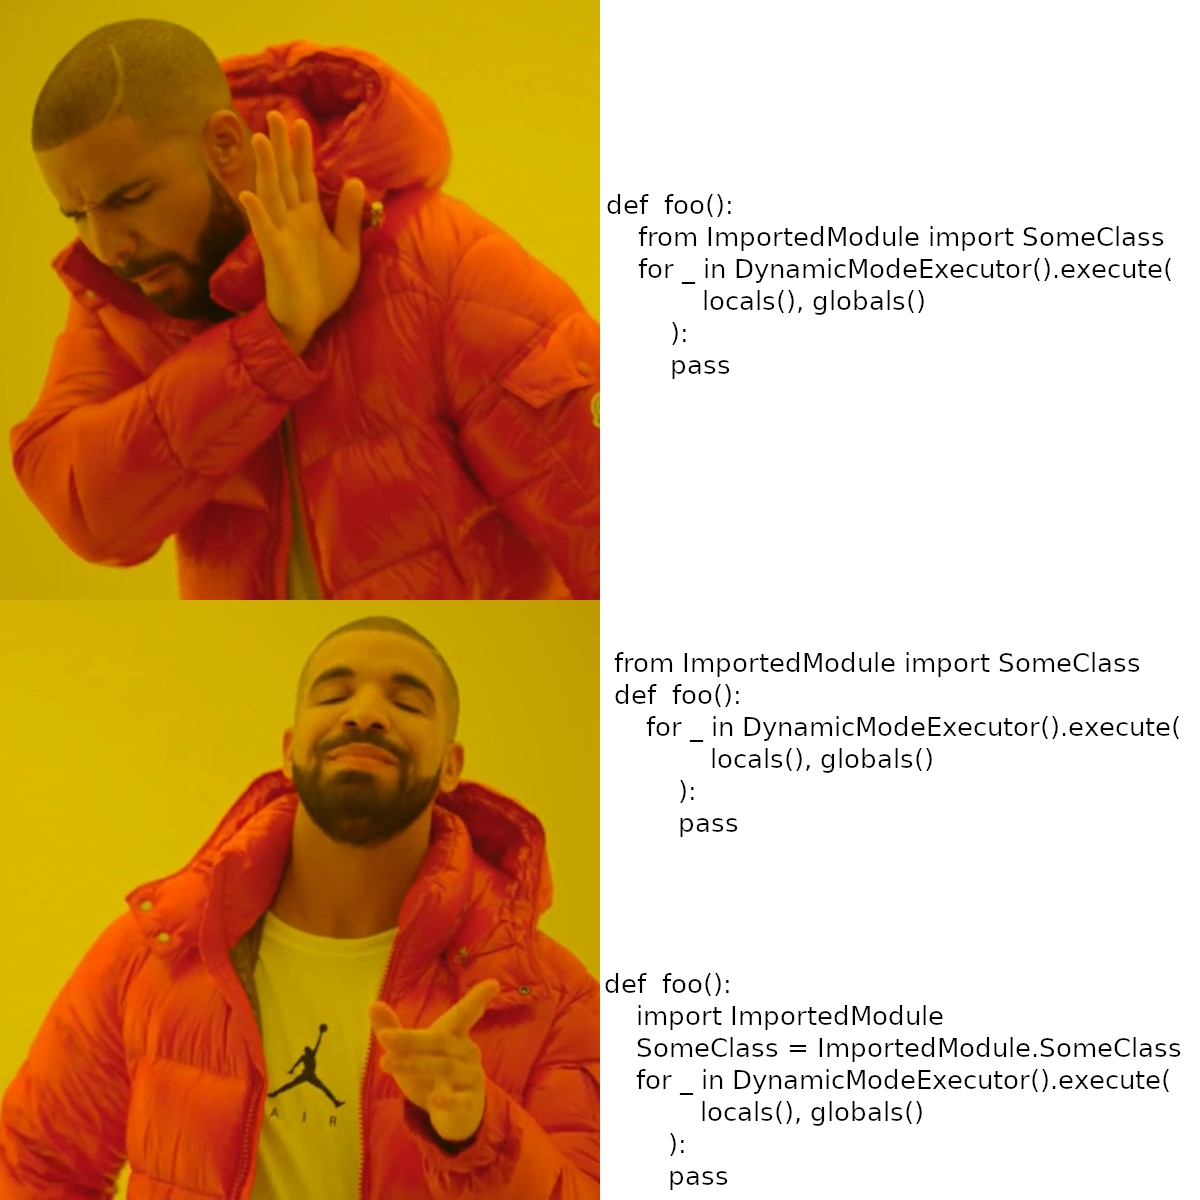
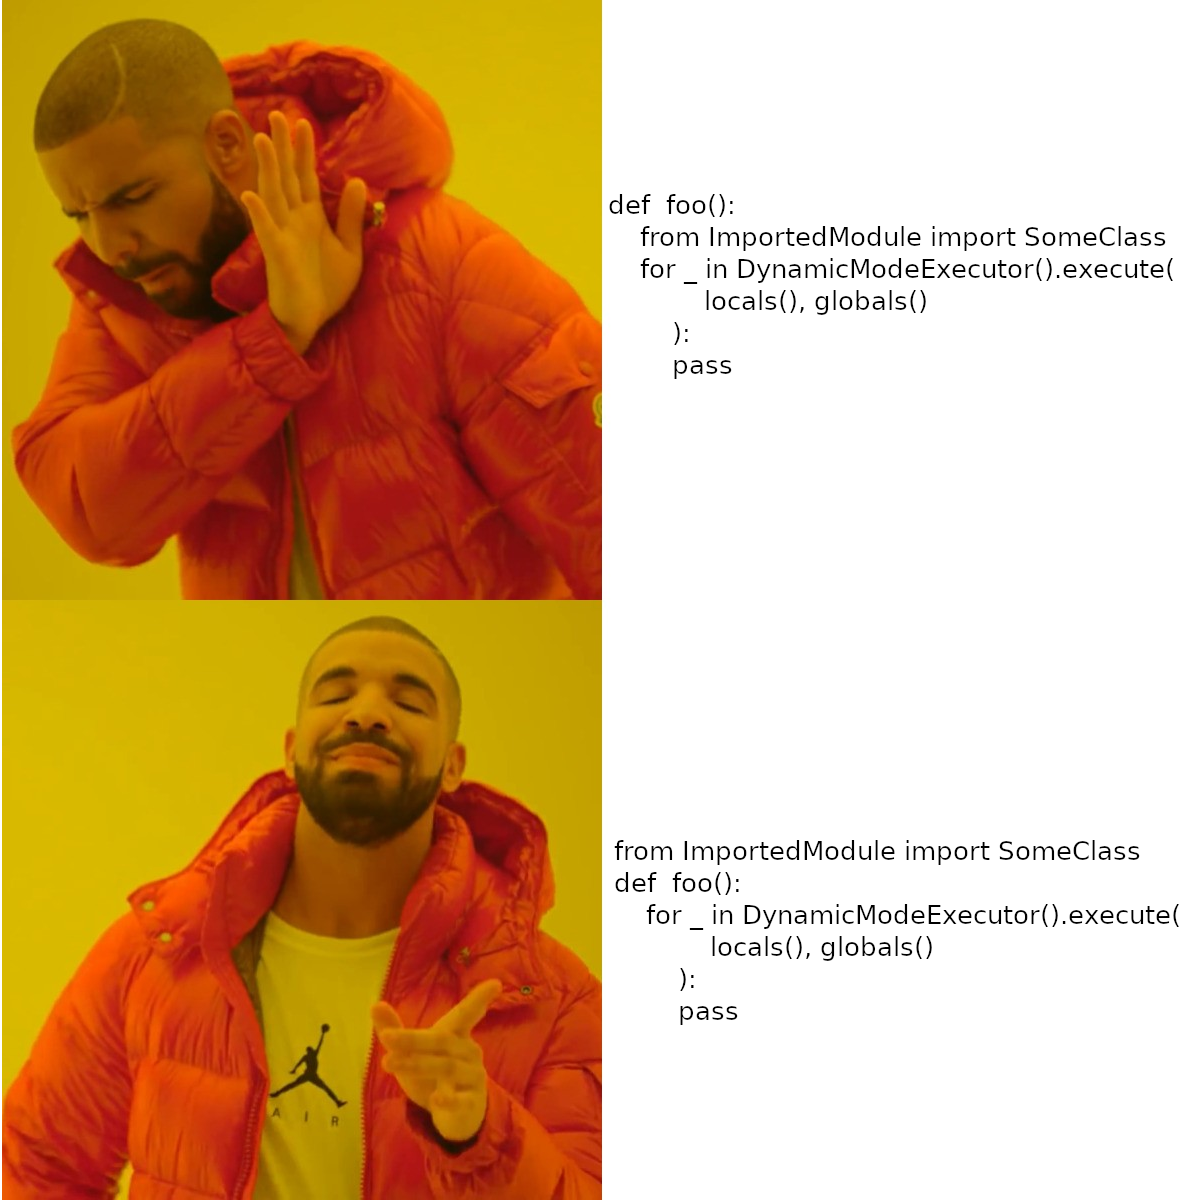
Updated documentation

diff --git a/README.md b/README.md
@@ -1,6 +1,11 @@
 # Dynamic-executor library for changing python code during runtime
 
-Dynamic python is ment to be used in test development for creating and updating tests or wherever the need arises to change the code during runtime and have results visible instantaneously without restarting. The main functionality is provided by `exec_in_dynamic_mode` generator that reloads all project-root modules (neither builtin not venv modules are reloaded)
+*Remember this moment when your test ran and after a few minutes failed on some seemingly obvious error so you had to fix it, than restart it just to see it fail only a few lines of code further? If not greate, but if yes be sure to check dynamic executor which gracefully resolves such problems.*
+
+Dynamic python is ment to be used in test development for creating and updating tests or wherever the need arises to change the code during runtime and have results visible instantaneously without restarting. The main functionality is provided by `DynamicModeExecutor().execute` generator that reloads all project-root modules (neither builtin not venv modules are reloaded).
+
+## Documentation
+Check out [documentation](https://tesla2000.github.io/dython/).
 
 ## Installation
 
@@ -10,7 +15,7 @@ You can install the `dynamic-executor` package using pip:
 pip install dynamic-executor
 ```
 
-Or by cloning the repository directly :
+Or by cloning the repository directly:
 
 ```bash
 git clone git@github.com:Tesla2000/dynamic_executor.git
@@ -18,54 +23,18 @@ git clone git@github.com:Tesla2000/dynamic_executor.git
 
 ### Access
 
-PyPI: https://pypi.org/project/dynamic-executor/
+[PyPi](https://pypi.org/project/dynamic-executor/)
 
-Github: https://github.com/Tesla2000/dython
+[GitHub](https://github.com/Tesla2000/dython)
 
 ### Usage
 
-You can go through video tutorial to check utilities of Dynamic Executor https://youtu.be/RZUzBU70eKA.
-
-Here's an example of how to use the `exec_in_dynamic_mode` function:
+You can go through video tutorial to check utilities of Dynamic Executor [tutorial](https://youtu.be/laMC6NI9b2I).
 
 ```python
-# ImportedModuleFaulty.py
-from dynamic_executor import DynamicClass
-
-
-class SomeDynamicClass(DynamicClass):
-    def foo(self):
-        raise ValueError
-```
-
-```python
-# ImportedModuleValid.py
-from dynamic_executor import DynamicClass
-
-
-class SomeDynamicClass(DynamicClass):
-    def foo(self):
-        pass
-```
-
-```python
-# _test_executor.py
-dynamic_instance.foo()
-```
-
-```python
-from dython import exec_in_dynamic_mode
-parent = Path(__file__).parent
-parent.joinpath("ImportedModule.py").write_text(
-    parent.joinpath("ImportedModuleFaulty.py").read_text()
-)  # faulty version of imported module
-from ImportedModule import SomeDynamicClass
-dynamic_instance = SomeDynamicClass()
-index = -1
-for index, error in enumerate(exec_in_dynamic_mode(locals(), globals(), parent.joinpath("_test_executor.py"))):
-    if index:
-        assert False  # ensuring that the error is corrected
-    parent.joinpath("ImportedModule.py").write_text(
-        parent.joinpath("ImportedModuleValid.py").read_text()
-    )  # correcting module
+from dynamic_executor import DynamicModeExecutor
+for error_message in DynamicModeExecutor().execute(
+        locals(), globals()
+    ):
+    pass
 ```

diff --git a/doc/index.rst b/doc/index.rst
@@ -12,6 +12,12 @@ Welcome to dynamic-executor's documentation!
 
    modules
 
+Dynamic-executor library for changing python code during runtime
+========================
+*Remember this moment when your test ran and after a few minutes failed on some seemingly obvious error so you had to fix it, than restart it just to see it fail only a few lines of code further? If not greate, but if yes be sure to check dynamic executor which gracefully resolves such problems.*
+
+Dynamic python is ment to be used in test development for creating and updating tests or wherever the need arises to change the code during runtime and have results visible instantaneously without restarting. The main functionality is provided by `DynamicModeExecutor().execute` generator that reloads all project-root modules (neither builtin not venv modules are reloaded).
+
 Why not importlib.reload
 ========================
 While importlib reload is a default built-in solution that provides basic functionality of reloading modules and it is used inside dynamic executor is has several drawbacks, namely:
@@ -27,7 +33,7 @@ While importlib reload is a default built-in solution that provides basic functi
 
 An Elusive Bug
 ========================
-As for today executor doesn't work properly when local import (in a scope of a function) can't be updated. Other configiration work as expected.
+As for today executor doesn't work properly when local import (in a scope of a function) using from can't be updated. Other configurations like global import with from or local import without from work as expected.
 
 .. image:: elusive_bug.png
   :width: 400
